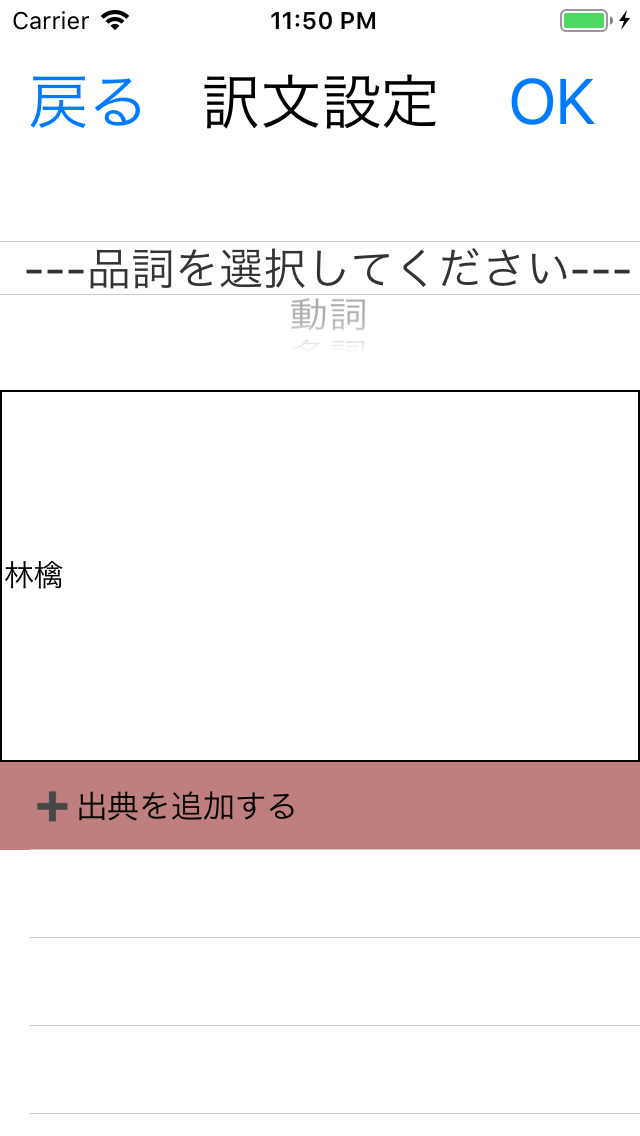
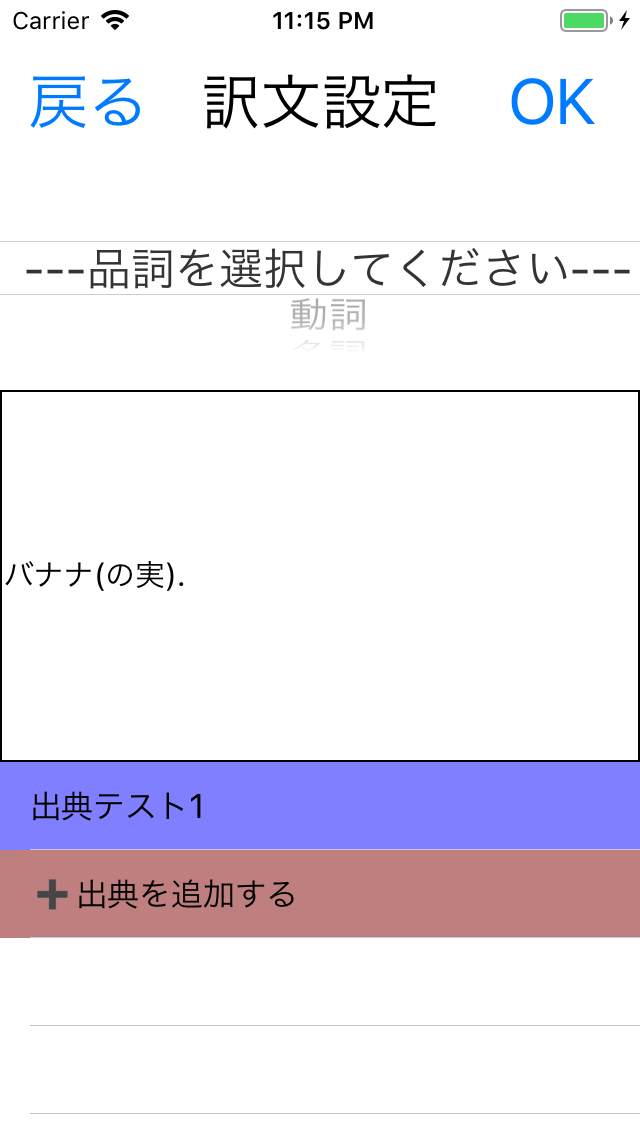
出典追加画面を新規追加。訳文設定で出典の追加が可能に

Changed region(s): [[0.0, 0.647, 1.0, 0.8319], [0.0, 0.493, 0.2812, 0.5238], [0.4062, 0.0, 0.5938, 0.0308]]

diff --git a/EnglishWords/EnglishWords/AddSourceViewController.swift b/EnglishWords/EnglishWords/AddSourceViewController.swift
@@ -1,0 +1,144 @@
+//
+//  AddSourceViewController.swift
+//  EnglishWords
+//
+//  Created by T.Wakasugi on 2019/03/13.
+//  Copyright © 2019年 T.Wakasugi. All rights reserved.
+//
+
+import Foundation
+import UIKit
+import RealmSwift
+
+class AddSourceViewController:UIViewController,UIPickerViewDelegate,UIPickerViewDataSource {
+    
+    @IBOutlet var sources: UIPickerView!
+    @IBOutlet var sourcetext: UITextField!
+    
+    //訳文設定画面のパラメータ保持用変数
+    var mean: WordData?
+    var newMeanFlag: Bool?
+    
+    var sourcelist: [Source] = []
+    var selectedsource: Source?
+    
+    let notSelectedSource: String = "--出典を選択してください--"
+    
+    override func viewDidLoad() {
+        super.viewDidLoad()
+        
+        // Delegate設定
+        sources.delegate = self
+        sources.dataSource = self
+        
+        //データベース内に保存してあるSourceを全て取得
+        let realm: Realm = try! Realm()
+        let results = realm.objects(Source.self)
+        sourcelist = Array(results)
+        
+        //品詞PickerViewに初期値用データを挿入
+        sourcelist.insert(Source(value: ["sourceName": notSelectedSource,
+                                        "createdDate": Date()]), at: 0)
+        selectedsource = sourcelist[0]
+
+    }
+    
+    override func didReceiveMemoryWarning() {
+        super.didReceiveMemoryWarning()
+    }
+    
+    // UIPickerViewの列の数
+    func numberOfComponents(in pickerView: UIPickerView) -> Int {
+        return 1
+    }
+    
+    // UIPickerViewの行数、リストの数
+    func pickerView(_ pickerView: UIPickerView, numberOfRowsInComponent component: Int) -> Int {
+        return sourcelist.count
+    }
+    
+    // UIPickerViewに表示する配列
+    func pickerView(_ pickerView: UIPickerView,
+                    titleForRow row: Int,
+                    forComponent component: Int) -> String? {
+        
+        return sourcelist[row].sourceName
+    }
+    
+    // UIPickerViewのRowが選択された時の挙動
+    func pickerView(_ pickerView: UIPickerView,
+                    didSelectRow row: Int,
+                    inComponent component: Int) {
+        selectedsource = sourcelist[row]
+    }
+    
+    @IBAction func buttonTapped(sender : AnyObject) {
+        if(sender.tag == 0){
+            //戻るボタン
+            performSegue(withIdentifier: "returnToConfigureMeanViewController",sender: nil)
+        }else if(sender.tag == 1){
+            //選択した出典から追加する　ボタン
+            
+            if (selectedsource?.sourceName.isEmpty)! || selectedsource?.sourceName == notSelectedSource {
+                showAlert(errormessage: "出典が選択されていません")
+            }else if((mean?.source.contains(selectedsource!))!){
+                showAlert(errormessage: "選択した出典は既に選択した単語データに登録されています")
+            }else{
+                //Realm、出典を新規登録
+                let realm = try! Realm()
+                try! realm.write {
+                    mean?.source.append(selectedsource!)
+                }
+                performSegue(withIdentifier: "returnToConfigureMeanViewController",sender: nil)
+            }
+            
+        }else if(sender.tag == 2){
+            //入力した出典を追加する　ボタン
+            
+            if (sourcetext.text?.isEmpty)! {
+                showAlert(errormessage: "登録する出典が入力されていません")
+            }else{
+                let newsource = Source(value: ["sourceName" : sourcetext.text!,
+                                               "createdDate": Date()])
+                if(sourcelist.contains(newsource)){
+                    showAlert(errormessage: "その出典は既に既存の出典データに登録されています")
+                }else if((mean?.source.contains(newsource))!){
+                    showAlert(errormessage: "その出典は既に選択した単語データに登録されています")
+                }else{
+
+                    //Realm、出典を新規登録
+                    let realm = try! Realm()
+                    try! realm.write {
+                        mean?.source.append(newsource)
+                        realm.add(newsource)
+                    }
+                    
+                    performSegue(withIdentifier: "returnToConfigureMeanViewController", sender: nil)
+                }
+            }
+        }
+    }
+    
+    // Segue 準備
+    override func prepare(for segue: UIStoryboardSegue, sender: Any?) {
+        if (segue.identifier == "returnToConfigureMeanViewController") {
+            let configureMeanVC: ConfigureMeanViewController = (segue.destination as? ConfigureMeanViewController)!
+            configureMeanVC.mean = mean
+            configureMeanVC.newMeanFlag = newMeanFlag
+        }
+    }
+    
+    func showAlert(errormessage: String) {
+        // アラートを作成
+        let alert = UIAlertController(
+            title: "エラー",
+            message: errormessage,
+            preferredStyle: .alert)
+        
+        // アラートにボタンをつける
+        alert.addAction(UIAlertAction(title: "OK", style: .default))
+        
+        // アラート表示
+        self.present(alert, animated: true, completion: nil)
+    }
+}

diff --git a/EnglishWords/EnglishWords/ConfigureMeanViewController.swift b/EnglishWords/EnglishWords/ConfigureMeanViewController.swift
@@ -106,6 +106,16 @@ class ConfigureMeanViewController:UIViewController,UIPickerViewDelegate,UIPicker
         return cell
     }
     
+    // Cell が選択された場合
+    func tableView(_ table: UITableView,didSelectRowAt indexPath: IndexPath) {
+        if indexPath.row < (mean?.source.count)! {
+            //出典のセルを選択してもとりあえず今は何もしないでおく
+        }else{
+            // AddSourceViewController へ遷移するために Segue を呼び出す
+            performSegue(withIdentifier: "toAddSourceViewController", sender: nil)
+        }
+    }
+    
     @IBAction func buttonTapped(sender : AnyObject) {
         if(sender.tag == 0){
             performSegue(withIdentifier: "returnToConfigureWordViewController",sender: nil)
@@ -146,6 +156,10 @@ class ConfigureMeanViewController:UIViewController,UIPickerViewDelegate,UIPicker
         if (segue.identifier == "returnToConfigureWordViewController") {
             let configureWordVC: ConfigureWordViewController = (segue.destination as? ConfigureWordViewController)!
             configureWordVC.selectedword = mean?.word
+        }else if(segue.identifier == "toAddSourceViewController"){
+            let addSourceVC: AddSourceViewController = (segue.destination as? AddSourceViewController)!
+            addSourceVC.mean = mean
+            addSourceVC.newMeanFlag = newMeanFlag
         }
     }
     

diff --git a/EnglishWords/EnglishWords/Source.swift b/EnglishWords/EnglishWords/Source.swift
@@ -16,4 +16,8 @@ class Source: Object {
     override static func primaryKey() -> String? {
         return "sourceName"
     }
+    
+    static func ==(a: Source, b: Source) -> Bool{
+        return a.sourceName == b.sourceName
+    }
 }
